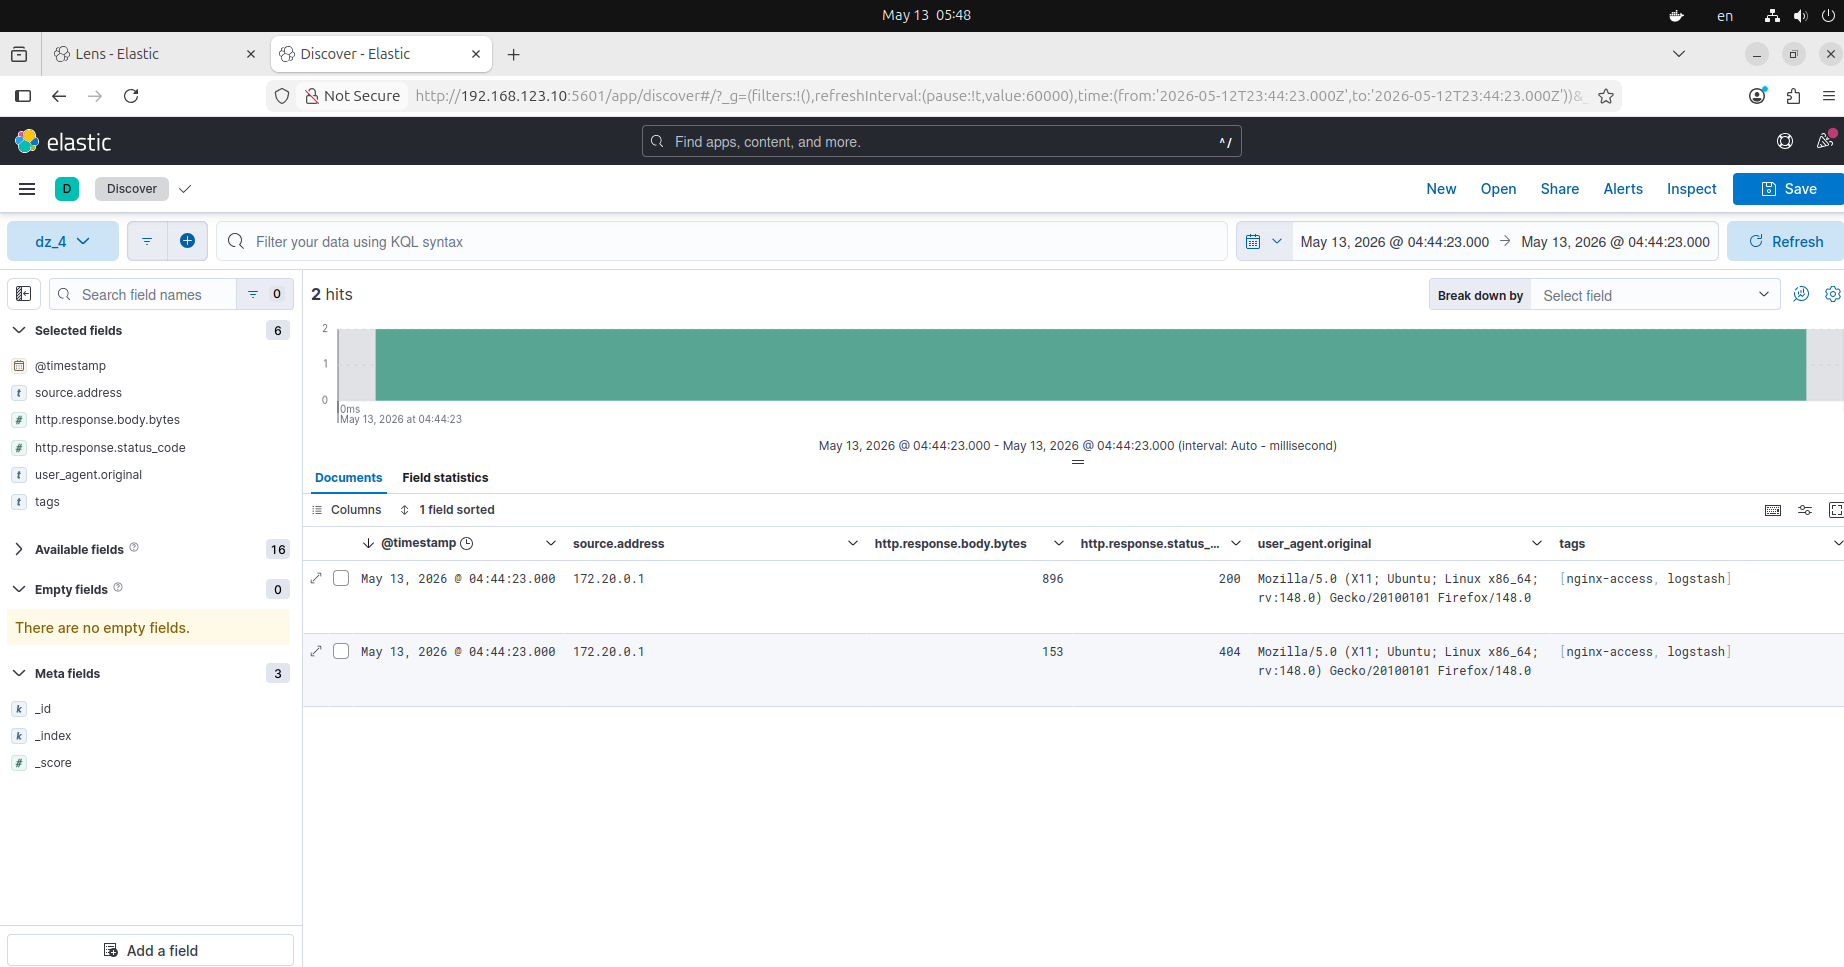
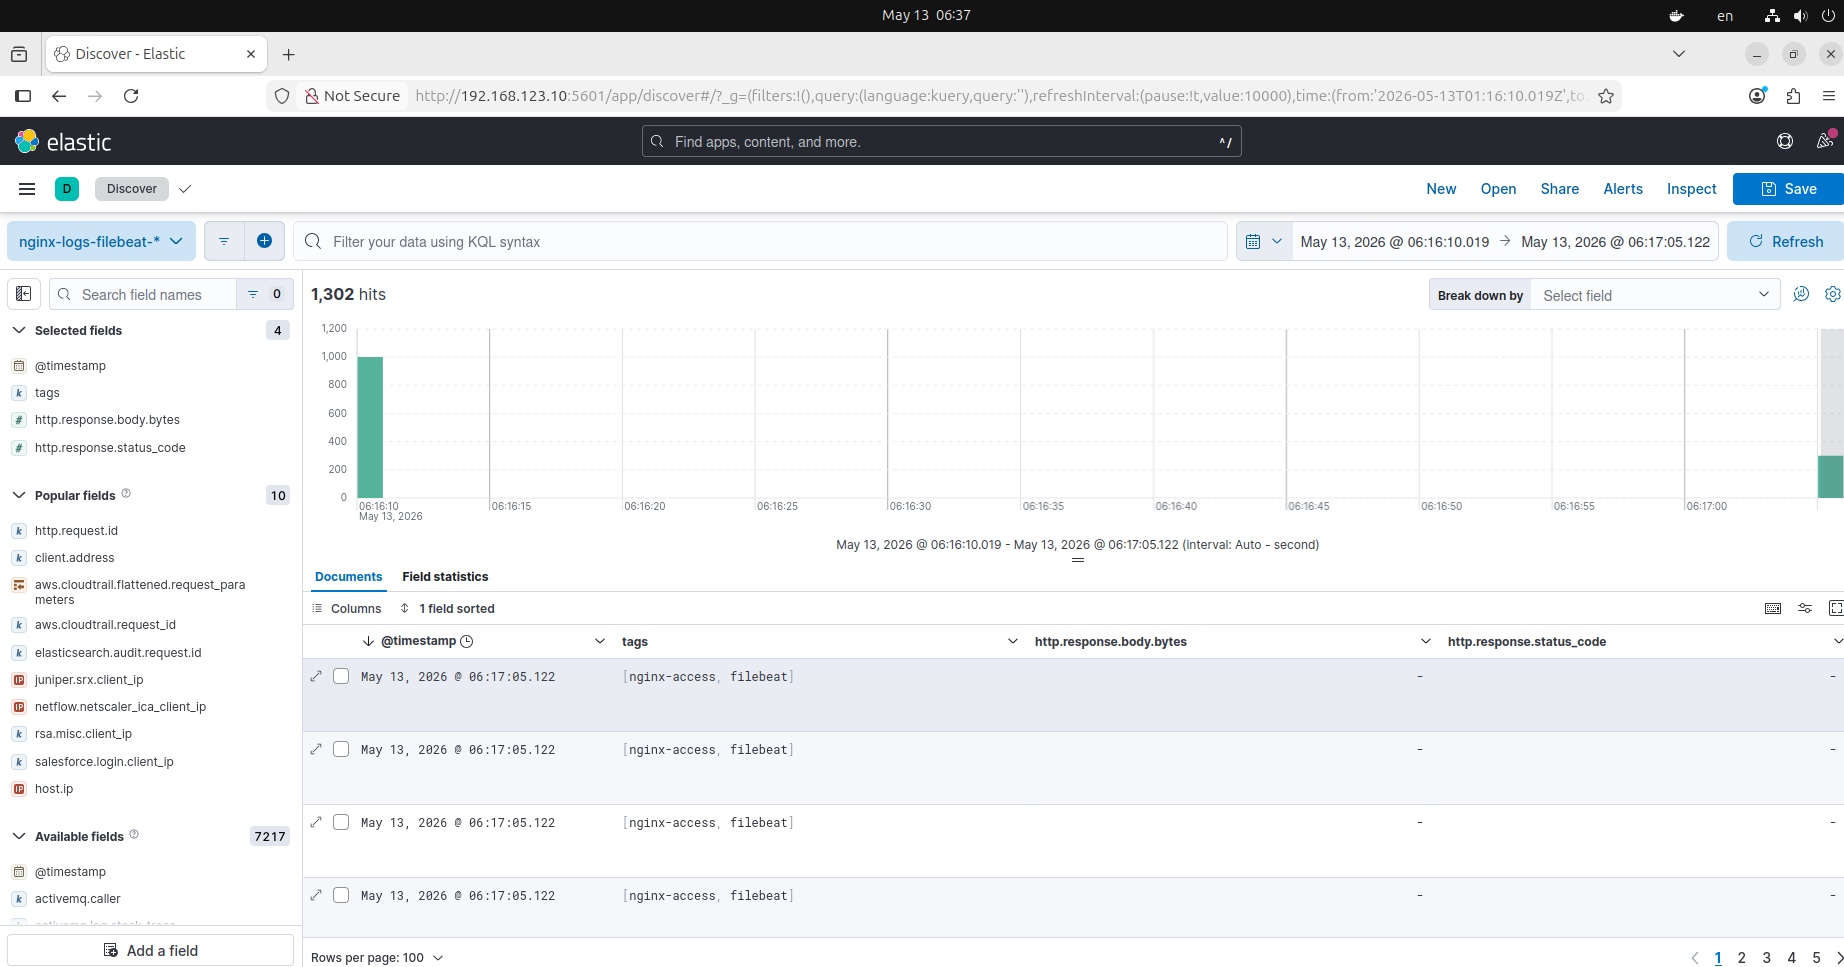
Выполнено ДЗ

diff --git a/README.md b/README.md
@@ -81,8 +81,6 @@
 
 ![Скриншот-8](https://github.com/MindMaze74/dz_elk/blob/main/img/8.png)
 
-![Скриншот-9](https://github.com/MindMaze74/dz_elk/blob/main/img/9.png)
-
 *Приведите скриншот интерфейса Kibana, на котором видны логи Nginx, которые были отправлены через Filebeat.*
 
 